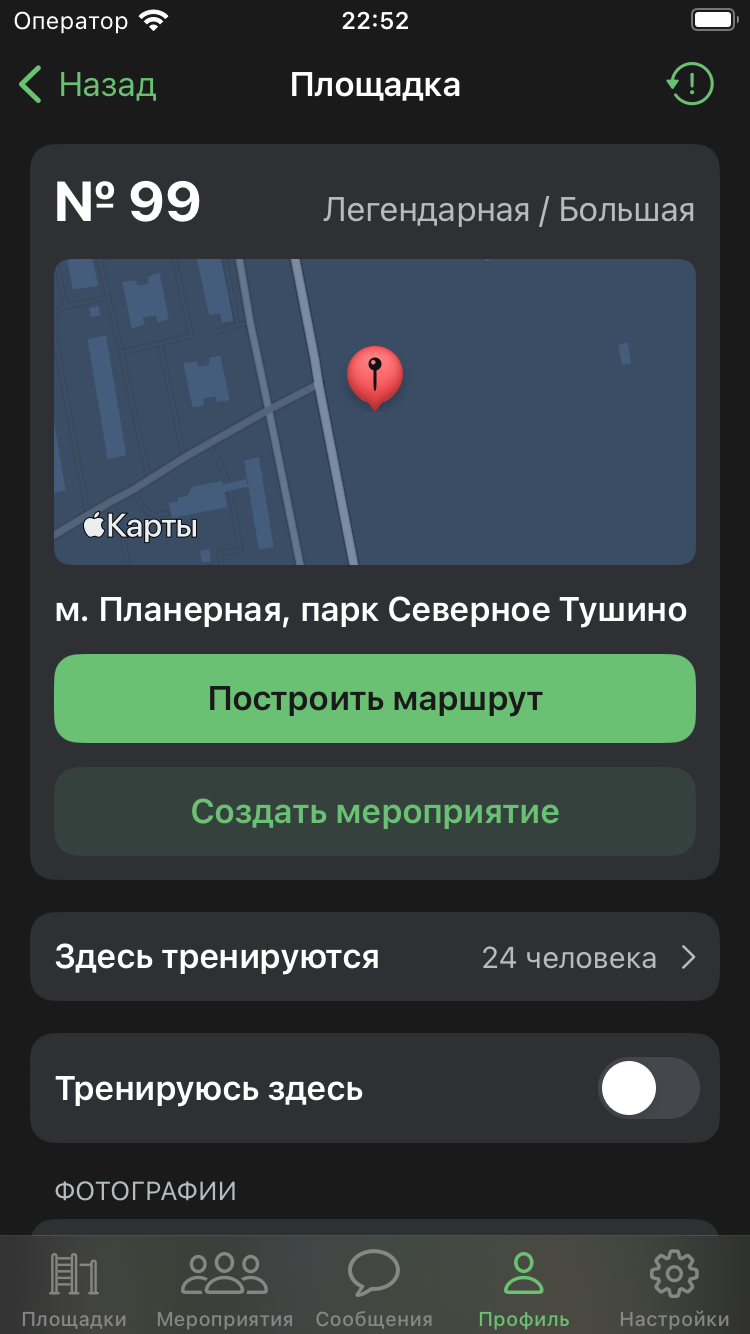
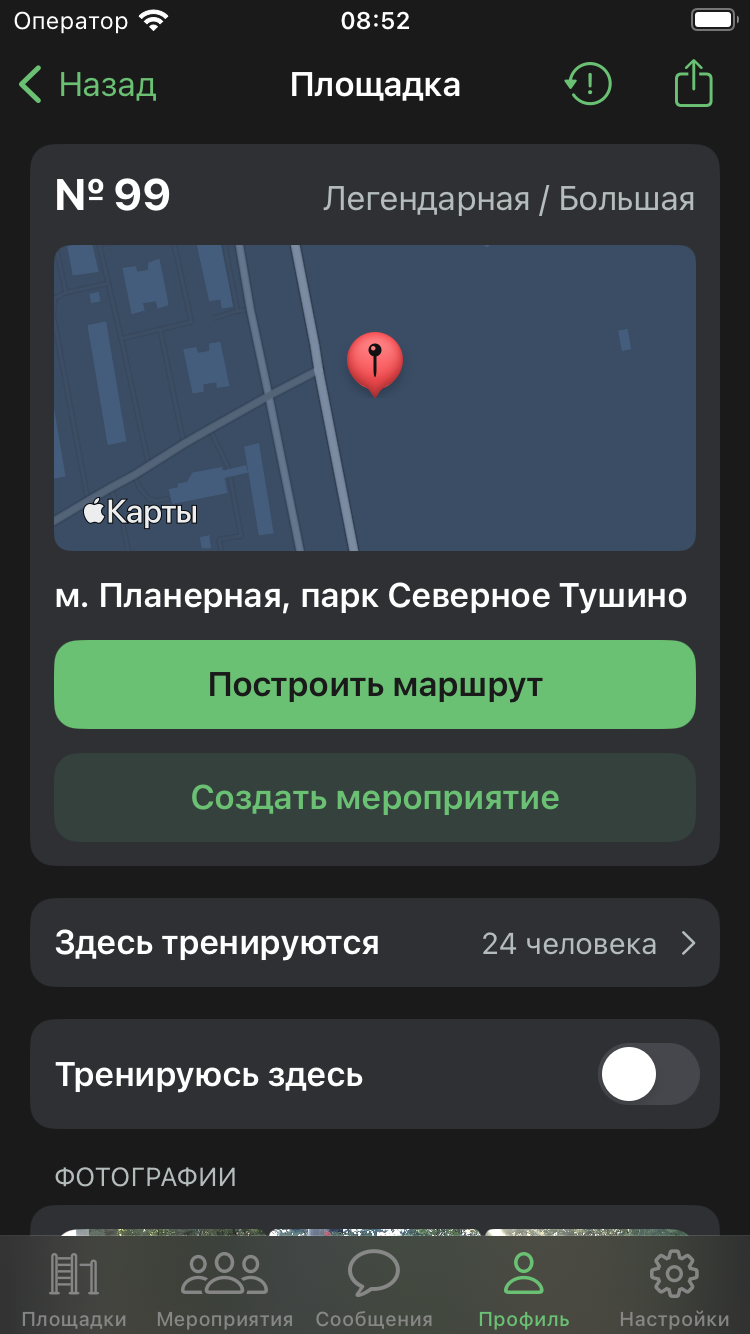
Обновил скриншоты и поднял версию до 3.5.0 (#165)
* Обновил скриншоты и запустил формат

* Поднял версию до 3.5.0 (1)

diff --git a/SwiftUI-WorkoutApp/Services/SWAddress.swift b/SwiftUI-WorkoutApp/Services/SWAddress.swift
@@ -120,9 +120,9 @@ extension SWAddress {
     /// Возвращает сохраненный в памяти справочник стран/городов
     func countries() throws -> [Country] {
         if storage.documentExists {
-            return try storage.get()
+            try storage.get()
         } else {
-            return try Bundle.main.decodeJson(
+            try Bundle.main.decodeJson(
                 [Country].self,
                 fileName: "countries",
                 extension: "json"
